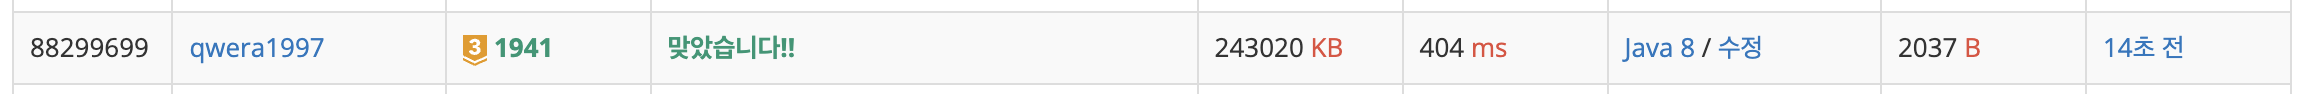
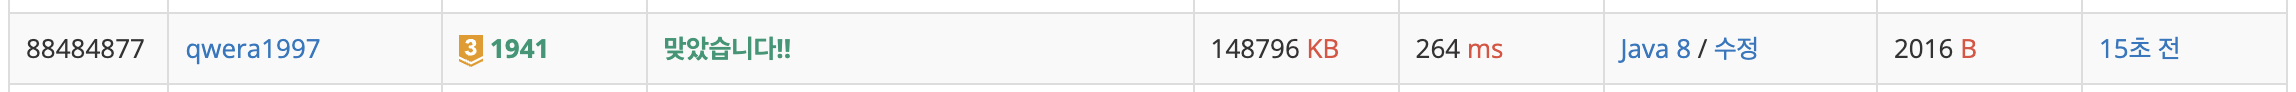
BOJ 1941 소문난 칠공주

diff --git a/2025-01/src/day_07/BOJ_1941/Main.java b/2025-01/src/day_07/BOJ_1941/Main.java
@@ -5,84 +5,72 @@ import java.util.*;
 
 public class Main {
 
-    // 조합용 정적 변수
     private static final int[] sel = new int[7];
+    private static final boolean[] selected = new boolean[25];
     private static int ans = 0;
 
-    // BFS용 정적 변수
-    private static char[] map = new char[25];
+    private static final char[][] map = new char[5][5];
     private static final int[] dr = {-1, 0, 1, 0};
     private static final int[] dc = {0, 1, 0, -1};
 
     public static void main(String[] args) throws IOException {
         BufferedReader br = new BufferedReader(new InputStreamReader(System.in));
-        StringBuilder sb = new StringBuilder();
 
-        // StringBuilder로 묶어서 입력을 1차원 배열로 처리
         for (int i = 0; i < 5; i++) {
-            sb.append(br.readLine());
+            map[i] = br.readLine().toCharArray();
         }
-        map = sb.toString().toCharArray();
 
-        combination(0, 0);
+        combination(0, 0, 0);
 
         System.out.println(ans);
     }
 
-    // 일반 조합 메서드
-    private static void combination(int idx, int selIdx) {
+    private static void combination(int idx, int selIdx, int cntY) {
+        // 임도연파가 더 많으면 리턴
+        if (cntY > 3) return;
+
         if (selIdx == sel.length) {
-            // 이다솜파가 더 많음 && 7명이 가로세로로 인접해 있음
-            if (check() && bfs(sel[0])) ans++;
+            if (bfs(sel[0] / 5, sel[0] % 5)) ans++;
             return;
         }
 
         for (int i = idx; i < 25; i++) {
             sel[selIdx] = i;
-            combination(i + 1, selIdx + 1);
-        }
-    }
 
-    // 7명 중 이다솜파가 더 많으면 true
-    private static boolean check() {
-        int cnt = 0;
-        for (int n : sel) {
-            if (map[n] == 'S') cnt++;
+            selected[i] = true;
+            if (map[i / 5][i % 5] == 'S') {
+                combination(i + 1, selIdx + 1, cntY);
+            } else {
+                combination(i + 1, selIdx + 1, cntY + 1);
+            }
+            selected[i] = false;
+
         }
-        return cnt > 3;
     }
 
     // 7명이 가로세로로 인접해있으면 true
-    private static boolean bfs(int start) {
-        Queue<Integer> q = new ArrayDeque<>();
-        q.offer(start);
+    private static boolean bfs(int r, int c) {
+        Queue<int[]> q = new ArrayDeque<>();
+        q.offer(new int[]{r, c});
 
-        boolean[] visited = new boolean[25];
-        visited[start] = true;
+        boolean[][] visited = new boolean[5][5];
+        visited[r][c] = true;
 
         int cnt = 1;
 
-        // Queue에 넣는건 방금 뽑은 7명만임
-        Set<Integer> set = new HashSet<>();
-        for (int n : sel) {
-            set.add(n);
-        }
-
         while (!q.isEmpty()) {
-            int node = q.poll();
+            int[] node = q.poll();
 
             for (int dir = 0; dir < 4; dir++) {
-                int nr = node / 5 + dr[dir];
-                int nc = node % 5 + dc[dir];
-                int next = nr * 5 + nc;
+                int nr = node[0] + dr[dir];
+                int nc = node[1] + dc[dir];
 
-                // map을 벗어나는건 따로 nr, nc로 비교해야함
                 if (nr < 0 || nr >= 5 || nc < 0 || nc >= 5) continue;
-                if (visited[next]) continue;
-                if (!set.contains(next)) continue;
+                if (visited[nr][nc]) continue;
+                if (!selected[nr * 5 + nc]) continue;
 
-                q.offer(next);
-                visited[next] = true;
+                q.offer(new int[]{nr, nc});
+                visited[nr][nc] = true;
                 cnt++;
             }
         }
